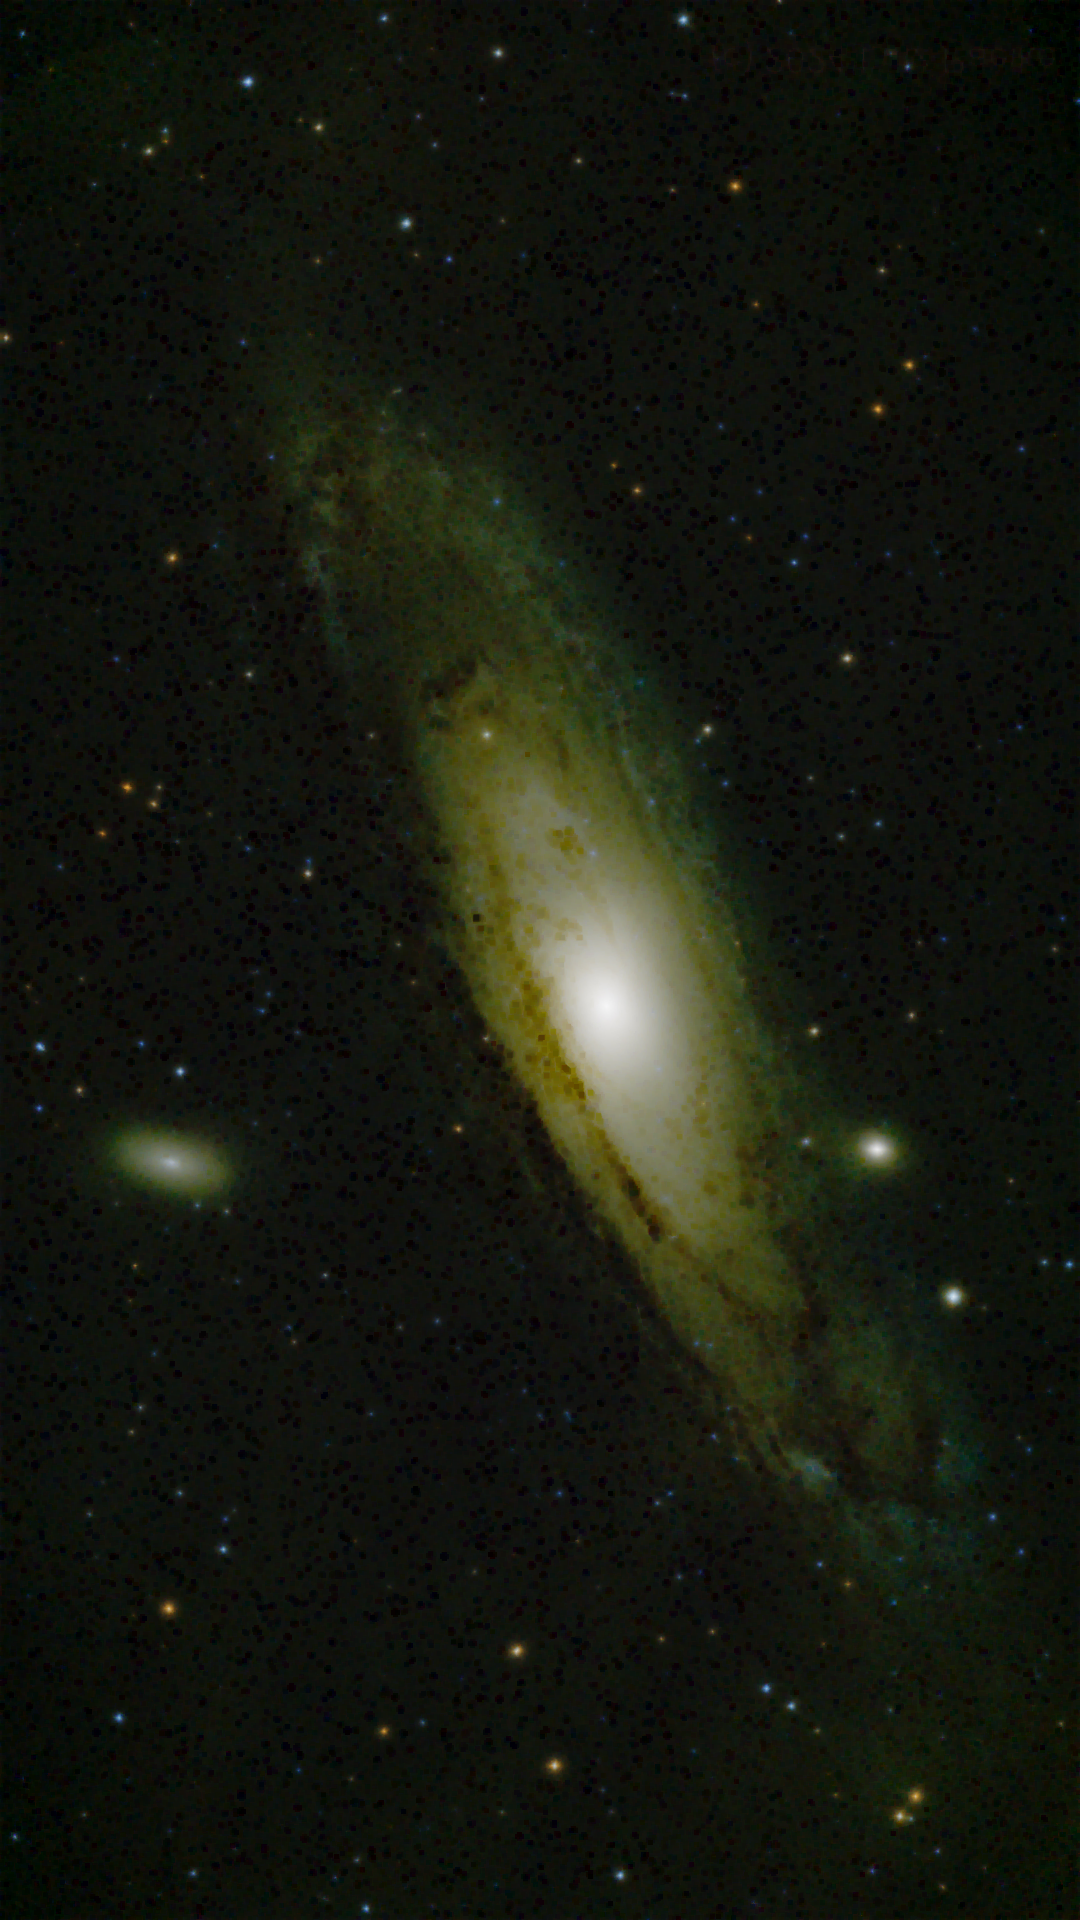
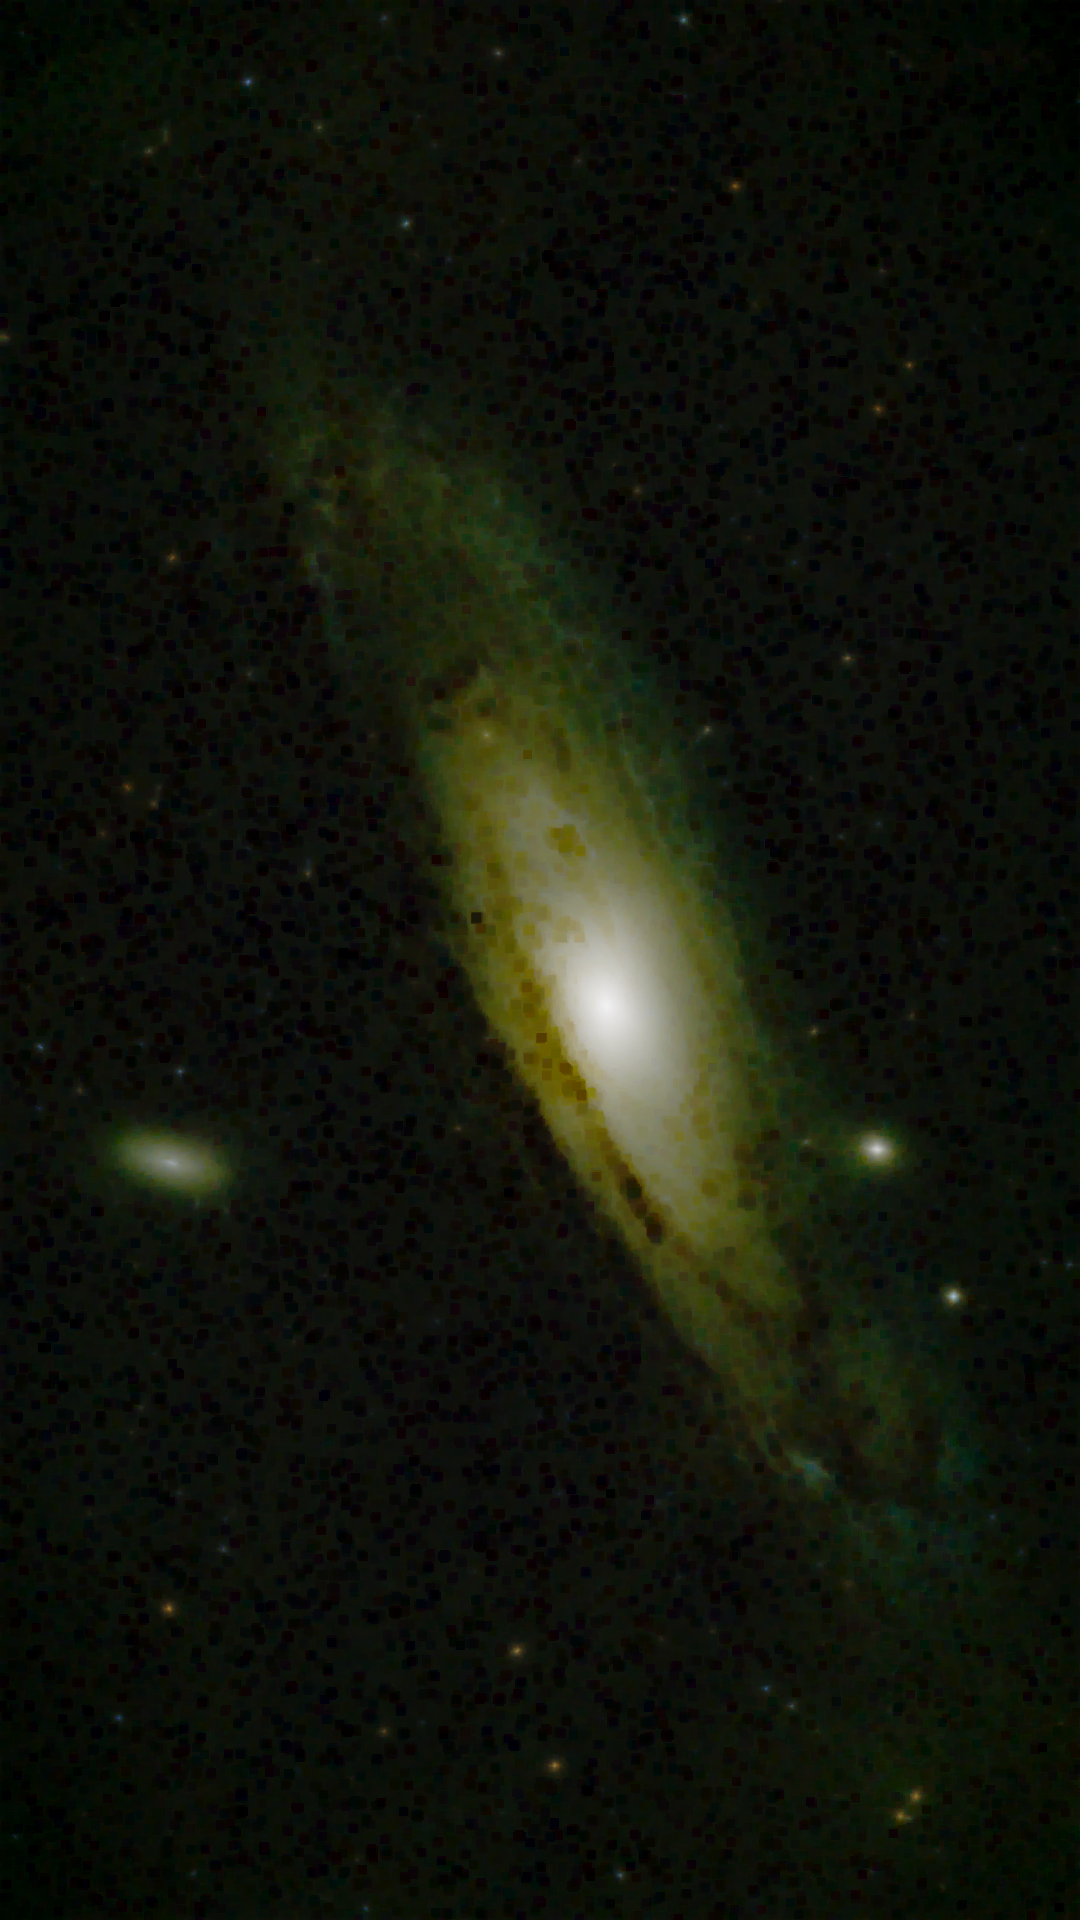
Nouveaux paramètres pour la Phase 2
- Ajout d'un espace pour gérer les paramètres simplement au début du code
- Test sur ./examples/m31_star.fits

diff --git a/erosion-phase2.py b/erosion-phase2.py
@@ -10,9 +10,25 @@ import matplotlib.pyplot as plt
 import cv2 as cv
 import numpy as np
 
+# =================================================================
+# VARIABLES DE CONFIGURATION
+# =================================================================
+FITS_FILE = "./examples/m31_star.fits"
+
+# Paramètres Érosion
+EROSION_SIZE = 3  # Taille du noyau (3x3, 5x5, etc.)
+EROSION_ITER = 4  # Nombre de fois qu'on érode (plus = étoiles plus petites)
+
+# Paramètres Masque (étape A)
+MASK_BLOCK_SIZE = 21  # Taille du voisinage (doit être impair : 11, 21, 31...)
+MASK_C_VALUE = -10  # Constante C (plus c'est bas, plus on détecte d'étoiles)
+
+# Paramètres Flou (étape B)
+BLUR_SIZE = 15  # Douceur de la transition (doit être impair : 5, 9, 15...)
+# =================================================================
+
 # Open and read the FITS file
-fits_file = "./examples/m31_star.fits"
-hdul = fits.open(fits_file)
+hdul = fits.open(FITS_FILE)
 
 # Display information about the file
 hdul.info()
@@ -49,9 +65,9 @@ else:
     image = ((data - data.min()) / (data.max() - data.min()) * 255).astype("uint8")
 
 # Define a kernel for erosion
-kernel = np.ones((5, 5), np.uint8)
+kernel = np.ones((EROSION_SIZE, EROSION_SIZE), np.uint8)
 # Perform erosion
-eroded_image = cv.erode(image, kernel, iterations=1)
+eroded_image = cv.erode(image, kernel, iterations=EROSION_ITER)
 
 
 ###### Phase 2 :
@@ -63,12 +79,19 @@ if len(image.shape) == 3:
 else:
     gray = image
 
+# Seuil
 mask = cv.adaptiveThreshold(
-    gray, 255, cv.ADAPTIVE_THRESH_GAUSSIAN_C, cv.THRESH_BINARY, 11, -20
+    gray,
+    255,
+    cv.ADAPTIVE_THRESH_GAUSSIAN_C,
+    cv.THRESH_BINARY,
+    MASK_BLOCK_SIZE,  # la taille du voisinage (ex: 21x21)
+    MASK_C_VALUE,  # Garde uniquement les pixels nettement plus brillants que la moyenne
 )
 
 ### Étape B : Réduction localisée
-mask_blurred = cv.GaussianBlur(mask, (5, 5), 0)
+# Masque flouté réalisé avec le noyau de Gauss
+mask_blurred = cv.GaussianBlur(mask, (BLUR_SIZE, BLUR_SIZE), 0)
 
 # Utilisation de float32 pour éviter les erreurs de profondeur d'image
 M = mask_blurred.astype(np.float32) / 255.0
